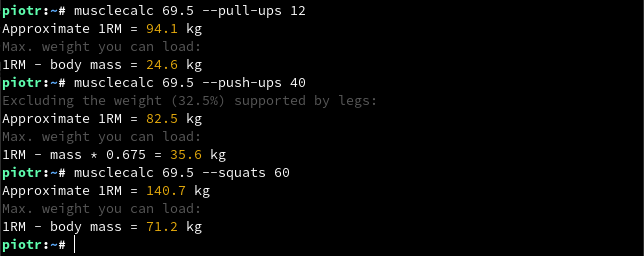
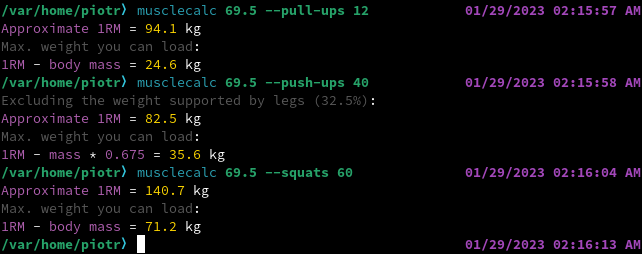
Add files via upload

diff --git a/src/menu.rs b/src/menu.rs
@@ -1,4 +1,4 @@
-// MUSCLECALC VERSION 0.2.3 / APACHE LICENSE 2.0 © 2022 PIOTR BAJDEK
+// MUSCLECALC VERSION 0.2.4 / APACHE LICENSE 2.0 © 2022–2023 PIOTR BAJDEK
 
 // MODULE MENU
 
@@ -13,46 +13,46 @@ use std::process::exit;
 
 // DOCUMENTATION
 
-pub fn documentation(reset: &str, yellow: &str, blue_underlined: &str, cyan: &str, grey: &str) {
+pub fn documentation(reset: &str, blue_underlined: &str, grey: &str, violet: &str, yellow: &str) {
     // ARGUMENTS ANYWHERE WITHIN THE STRING
 
     for argument in env::args() {
         // ABOUT
 
         if argument == "-a" || argument == "--about" {
-            println!("Program:  {}", yellow.to_owned() + "musclecalc" + reset);
-            println!("Version:  0.2.3");
-            println!("Date:     November 26, 2022");
-            println!("Author:   Piotr Bajdek (Poland)");
-            println!("Contact:  {}", blue_underlined.to_owned() + "piotr.bajdek@proton.me" + reset);
-            println!("Source:   {}", blue_underlined.to_owned() + "https://github.com/piotrbajdek/musclecalc" + reset);
-            println!("License:  Apache License 2.0 © 2022 Piotr Bajdek");
+            println!("{}", grey.to_owned() + "Program" + reset + ":  " + yellow + "musclecalc" + reset);
+            println!("{}", grey.to_owned() + "Version" + reset + ":  0.2.4");
+            println!("{}", grey.to_owned() + "Date" + reset + ":     January 29, 2023");
+            println!("{}", grey.to_owned() + "Author" + reset + ":   Piotr Bajdek");
+            println!("{}", grey.to_owned() + "Contact" + reset + ":  " + blue_underlined + "piotr.bajdek@proton.me" + reset);
+            println!("{}", grey.to_owned() + "Source" + reset + ":   " + blue_underlined + "https://github.com/piotrbajdek/musclecalc" + reset);
+            println!("{}", grey.to_owned() + "License" + reset + ":  Apache License 2.0 © 2022–2023 Piotr Bajdek");
             exit(0);
         }
 
         // HELP
 
         if argument == "-h" || argument == "--help" {
-            println!("Usage:     {}", yellow.to_owned() + "[BODY MASS IN KG] [EXERCISE] [MAX. REPETITIONS]" + reset);
+            println!("{}", grey.to_owned() + "Usage" + reset + ":     " + yellow + "musclecalc [body mass in kg] [exercise] [max. repetitions]" + reset);
             println!();
-            println!("Exercises: {}", cyan.to_owned() + "-p" + reset + ", " + cyan + "--pull-ups" + reset + "    Model for pull-ups");
-            println!("           {}", cyan.to_owned() + "-P" + reset + ", " + cyan + "--push-ups" + reset + "    Model for push-ups");
-            println!("           {}", cyan.to_owned() + "-s" + reset + ", " + cyan + "--squats" + reset + "      Model for squats");
+            println!("{}", grey.to_owned() + "Exercises" + reset + ": " + violet + "-p" + reset + ", " + violet + "--pull-ups" + reset + "    Model for pull-ups");
+            println!("           {}", violet.to_owned() + "-P" + reset + ", " + violet + "--push-ups" + reset + "    Model for push-ups");
+            println!("           {}", violet.to_owned() + "-s" + reset + ", " + violet + "--squats" + reset + "      Model for squats");
             println!();
-            println!("Example:   {}", yellow.to_owned() + "musclecalc 69.5 --pull-ups 12" + reset);
+            println!("{}", grey.to_owned() + "Example" + reset + ":   " + yellow + "musclecalc 69.5 --pull-ups 12" + reset);
             println!();
-            println!("See also:  {}", cyan.to_owned() + "-a" + reset + ", " + cyan + "--about" + reset + "       Show contact and program info");
-            println!("           {}", cyan.to_owned() + "-h" + reset + ", " + cyan + "--help" + reset + "        Show this help");
-            println!("           {}", cyan.to_owned() + "-l" + reset + ", " + cyan + "--license" + reset + "     Show licensing information");
-            println!("           {}", cyan.to_owned() + "-m" + reset + ", " + cyan + "--models" + reset + "      Show implemented formulae");
-            println!("           {}", cyan.to_owned() + "-v" + reset + ", " + cyan + "--version" + reset + "     Show program version");
+            println!("{}", grey.to_owned() + "See also" + reset + ":  " + violet + "-a" + reset + ", " + violet + "--about" + reset + "       Display contact and program information");
+            println!("           {}", violet.to_owned() + "-h" + reset + ", " + violet + "--help" + reset + "        Display the help menu");
+            println!("           {}", violet.to_owned() + "-l" + reset + ", " + violet + "--license" + reset + "     Display licensing information");
+            println!("           {}", violet.to_owned() + "-m" + reset + ", " + violet + "--models" + reset + "      Display the list of implemented formulae");
+            println!("           {}", violet.to_owned() + "-v" + reset + ", " + violet + "--version" + reset + "     Display the program version");
             exit(0);
         }
 
         // LICENSE
 
         if argument == "-l" || argument == "--license" {
-            println!("{}", yellow.to_owned() + "Copyright 2022 Piotr Bajdek" + reset);
+            println!("{}", yellow.to_owned() + "Copyright 2022–2023 Piotr Bajdek" + reset);
             println!();
             println!(r#"Licensed under the Apache License, Version 2.0 (the "License");"#);
             println!("you may not use this file except in compliance with the License.");
@@ -71,16 +71,16 @@ pub fn documentation(reset: &str, yellow: &str, blue_underlined: &str, cyan: &st
         // MODELS
 
         if argument == "-m" || argument == "--models" {
-            println!("Pull-ups            {}", cyan.to_owned() + "Mayhew et al. (1992) formula:");
+            println!("Pull-ups            {}", violet.to_owned() + "Mayhew et al. (1992) formula" + reset + ":");
             println!("{}", yellow.to_owned() + " 100 * mass / (52.2 + 41.9 * exp (-0.055 * reps))" + reset);
             println!();
-            println!("Push-ups   {}", cyan.to_owned() + "Modified Mayhew et al. (1992) formula:");
+            println!("Push-ups   {}", violet.to_owned() + "Modified Mayhew et al. (1992) formula" + reset + ":");
             println!("{}", yellow.to_owned() + "67.5 * mass / (52.2 + 41.9 * exp (-0.055 * reps))" + reset);
             println!();
-            println!("Squats                     {}", cyan.to_owned() + "Wathen (1994) formula:");
+            println!("Squats                     {}", violet.to_owned() + "Wathen (1994) formula" + reset + ":");
             println!("{}", yellow.to_owned() + " 100 * mass / (48.8 + 53.8 * exp (-0.075 * reps))");
             println!();
-            println!("{}", grey.to_owned() + "***" + reset);
+            println!("{}", grey.to_owned() + "References" + reset + ":");
             println!();
             println!("Mayhew, J.L., Ball, T.E., Arnold, M.D. and Bowen, J.C. 1992. Relative muscular");
             println!("endurance performance as a predictor of bench press strength in college men");
@@ -94,8 +94,8 @@ pub fn documentation(reset: &str, yellow: &str, blue_underlined: &str, cyan: &st
         // VERSION
 
         if argument == "-v" || argument == "--version" {
-            println!("Version: {}", yellow.to_owned() + "0.2.3" + reset);
-            println!("November 26, 2022");
+            println!("{}", grey.to_owned() + "Version" + reset + ": " + yellow + "0.2.4" + reset);
+            println!("January 29, 2023");
             exit(0);
         }
     }

diff --git a/src/calc.rs b/src/calc.rs
@@ -1,4 +1,4 @@
-// MUSCLECALC VERSION 0.2.3 / APACHE LICENSE 2.0 © 2022 PIOTR BAJDEK
+// MUSCLECALC VERSION 0.2.4 / APACHE LICENSE 2.0 © 2022–2023 PIOTR BAJDEK
 
 // MODULE CALC
 
@@ -13,7 +13,7 @@ use std::env;
 
 // CALCULATIONS
 
-pub fn list(reset: &str, red: &str, yellow: &str, grey: &str) {
+pub fn list(reset: &str, grey: &str, red: &str, violet: &str, yellow: &str) {
     // COLLECT ARGUMENTS FOR CALCULATIONS
 
     let args: Vec<String> = env::args().collect();
@@ -36,13 +36,13 @@ pub fn list(reset: &str, red: &str, yellow: &str, grey: &str) {
         let mexp = 41.9f32.mul_add(cexp, 52.2);
         let rm = 100_f32 * mass / mexp;
 
-        print!("Approximate 1RM = {}", yellow.to_owned());
-        print!("{:.1}", rm);
+        print!("{}", violet.to_owned() + "Approximate 1RM" + reset + " = " + yellow);
+        print!("{rm:.1}");
         println!("{}", reset.to_owned() + " kg");
 
-        println!("{}", grey.to_owned() + "Max. weight you can load:" + reset);
+        println!("{}", grey.to_owned() + "Max. weight you can load" + reset + ":");
 
-        print!("1RM - body mass = {}", yellow.to_owned());
+        print!("{}", violet.to_owned() + "1RM " + reset + "-" + violet + " body mass" + reset + " = " + yellow);
         print!("{:.1}", rm - mass);
         println!("{}", reset.to_owned() + " kg");
         return;
@@ -59,14 +59,14 @@ pub fn list(reset: &str, red: &str, yellow: &str, grey: &str) {
         let mexp = 41.9f32.mul_add(cexp, 52.2);
         let rmmod = 100_f32 * massmod / mexp;
 
-        println!("{}", grey.to_owned() + "Excluding the weight (32.5%) supported by legs:" + reset);
-        print!("Approximate 1RM = {}", yellow.to_owned());
-        print!("{:.1}", rmmod);
+        println!("{}", grey.to_owned() + "Excluding the weight supported by legs (32.5%)" + reset + ":");
+        print!("{}", violet.to_owned() + "Approximate 1RM" + reset + " = " + yellow);
+        print!("{rmmod:.1}");
         println!("{}", reset.to_owned() + " kg");
 
-        println!("{}", grey.to_owned() + "Max. weight you can load:" + reset);
+        println!("{}", grey.to_owned() + "Max. weight you can load" + reset + ":");
 
-        print!("1RM - mass * 0.675 = {}", yellow.to_owned());
+        print!("{}", violet.to_owned() + "1RM " + reset + "-" + violet + " mass " + reset + "*" + violet + " 0.675" + reset + " = " + yellow);
         print!("{:.1}", rmmod - massmod);
         println!("{}", reset.to_owned() + " kg");
         return;
@@ -82,13 +82,13 @@ pub fn list(reset: &str, red: &str, yellow: &str, grey: &str) {
         let mexp = 53.8f32.mul_add(cexp, 48.8);
         let rm = 100_f32 * mass / mexp;
 
-        print!("Approximate 1RM = {}", yellow.to_owned());
-        print!("{:.1}", rm);
+        print!("{}", violet.to_owned() + "Approximate 1RM" + reset + " = " + yellow);
+        print!("{rm:.1}");
         println!("{}", reset.to_owned() + " kg");
 
-        println!("{}", grey.to_owned() + "Max. weight you can load:" + reset);
+        println!("{}", grey.to_owned() + "Max. weight you can load" + reset + ":");
 
-        print!("1RM - body mass = {}", yellow.to_owned());
+        print!("{}", violet.to_owned() + "1RM " + reset + "-" + violet + " body mass" + reset + " = " + yellow);
         print!("{:.1}", rm - mass);
         println!("{}", reset.to_owned() + " kg");
         return;

diff --git a/src/main.rs b/src/main.rs
@@ -1,4 +1,4 @@
-// MUSCLECALC VERSION 0.2.3 / APACHE LICENSE 2.0 © 2022 PIOTR BAJDEK
+// MUSCLECALC VERSION 0.2.4 / APACHE LICENSE 2.0 © 2022–2023 PIOTR BAJDEK
 
 // MAIN FILE
 
@@ -15,12 +15,12 @@ pub mod menu;
 
 fn main() {
     let reset = "\x1b[0m";
-    let yellow = "\x1b[93m";
+    let yellow = "\x1b[38;5;220m";
     let red = "\x1b[31m";
     let blue_underlined = "\x1b[34;4m";
-    let cyan = "\x1b[36m";
+    let violet = "\x1b[38;5;133m";
     let grey = "\x1b[38;5;240m";
 
-    menu::documentation(reset, yellow, blue_underlined, cyan, grey);
-    calc::list(reset, red, yellow, grey);
+    menu::documentation(reset, blue_underlined, grey, violet, yellow);
+    calc::list(reset, grey, red, violet, yellow);
 }

diff --git a/README.md b/README.md
@@ -1,22 +1,16 @@
 # MUSCLECALC
 
-[musclecalc](https://github.com/piotrbajdek/musclecalc) employs mathematical formulae from Mayhew et al. (1992) and Wathen (1994) to estimate the maximum weight one can lift in a single repetition of a physical exercise (known as 1RM: one repetition maximum). Calculations are based on (1) the body mass, (2) the exercise type, and (3) the maximum number of repetitions one is able to perform in a single set without an additional weight i.e., with its own body mass.
+[musclecalc](https://github.com/piotrbajdek/musclecalc) utilises mathematical formulae from Mayhew et al. (1992) and Wathen (1994) to estimate the maximum weight that can be lifted in a single repetition of a physical exercise, known as the one repetition maximum (1RM). The calculations take into account the body mass, exercise type, and maximum number of repetitions that can be performed without additional weight.
 
 [keywords: bodybuilding, calculator, calisthenics, callisthenics, fitness, gym, muscle strength, physical training, street workout]
 
-musclecalc can be used by both females and males. Implemented models:
+Designed for use by both females and males, musclecalc utilises the following models:
 
-**1. Pull-ups** (including chin-ups, will also work fine for dips and other upper-body exercises lifting the whole body)
+**1. Pull-ups**, including chin-ups, dips, and other upper-body exercises that involve lifting the whole body. The Mayhew et al. (1992) equation is used, as it is possibly more accurate for the upper body (LeSuer et al. 1997; Jiménez and De Paz 2008).
 
-– Mayhew et al. (1992) equation is used as it appears to be more accurate for the upper body (LeSuer et al. 1997; Jiménez and De Paz 2008).
+**2. Push-ups**, for which the a modified Mayhew et al. (1992) formula is used, assuming that 32.5% of the body weight is supported on the ground by legs when push-ups are performed with a typical position of hands at the height of the chest.
 
-**2. Push-ups** (untested on females and dependent on the body form)
-
-– Modified Mayhew et al. (1992) formula assuming that 32.5% of the body weight is supported on the ground by legs when push-ups are performed with a typical position of hands at the height of the chest.
-
-**3. Squats**
-
-– Wathen (1994) equation is used as it appears to be more accurate for the lower body (LeSuer et al. 1997).
+**3. Squats**, for which the Wathen (1994) equation is used, as it is possibly more accurate for the lower body (LeSuer et al. 1997).
 
 **References:**
 
@@ -28,72 +22,72 @@ Mayhew, J.L., Ball, T.E., Arnold, M.D., and Bowen, J.C. 1992. Relative muscular 
 
 Wathen, D. 1994. Load assignment. In: T.R. Baechle (Ed.), _Essentials of strength training and conditioning_, pp. 435–446. Champaign, IL: Human Kinetics.
 
-# EXAMPLES
+# USAGE
 
 ![help-image](https://github.com/piotrbajdek/musclecalc/blob/main/docs/images/help-image.png?raw=true)
+
+![models-image](https://github.com/piotrbajdek/musclecalc/blob/main/docs/images/models-image.png?raw=true)
+
+# EXAMPLES
 
 ![example-image-1](https://github.com/piotrbajdek/musclecalc/blob/main/docs/images/example-image-1.png?raw=true)
 
 # INSTALLATION ON LINUX
 
-[musclecalc](https://github.com/piotrbajdek/musclecalc) should run smoothly on **Windows** and **macOS**, and can be installed by the use of [cargo](https://www.rust-lang.org/tools/install). Yet, it is being developed and primarily tested on **Fedora Linux**.
+[musclecalc](https://github.com/piotrbajdek/musclecalc) is designed to be compatible with **Windows** and **macOS**, and can be easily installed using [cargo](https://www.rust-lang.org/tools/install). However, the primary development and testing environment for musclecalc is **Fedora Linux**.
 
-musclecalc v0.2.3:
+The current version of musclecalc (v0.2.4) has been verified to work properly on Fedora Linux 37 and Ubuntu 22.10.
 
-– Was successfully tested on Arch Linux, Fedora Linux 37, openSUSE Tumbleweed, Ubuntu 22.04 and Ubuntu 22.10.
+## METHOD 1 – USING CARGO
 
-– Failed to run on Mageia 8 due to an old glibc version (required ≥2.34).
+**[Recommended for programmers]**
 
-## METHOD 1 – BY THE USE OF CARGO
-
-**[recommended for programmers]**
-
-**1.** Install from crates.io by the use of cargo:
+**1.** To install musclecalc from [crates.io](https://crates.io/crates/musclecalc), use the following cargo command:
 
 _cargo install musclecalc_
 
-By default, the file will be downloaded to `.cargo/bin/`, a hidden folder in your home directory.
+The executable will be saved in the hidden `.cargo/bin/` directory within your home directory.
 
-**2a.** For convenience, you will probably want to copy musclecalc to `/usr/bin/` as in Method 2 (3a, 3b).
+**2a.** For easy access, you may want to copy the musclecalc file to the `/usr/bin/` directory. This can be done by following the instructions in Method 2 (3a, 3b).
 
-**2b.** Alternatively, add `~/.cargo/bin` directory to your PATH variable (can be set up by [rustup](https://www.rust-lang.org/tools/install)).
+**2b.** As an alternative, you can add the `~/.cargo/bin/` directory to your system's PATH variable, which can be configured using [rustup](https://www.rust-lang.org/tools/install).
 
-## METHOD 2 – LINUX UNIVERSAL BINARIES
+## METHOD 2 – UNIVERSAL LINUX BINARIES
 
-**1.** Download the distro-independent [binary](https://github.com/piotrbajdek/musclecalc/releases/download/v0.2.3/musclecalc) of musclecalc from GitHub.
+**1.** To install musclecalc, first download the distro-independent [binary](https://github.com/piotrbajdek/musclecalc/releases/download/v0.2.4/musclecalc) from GitHub.
 
-**2.** Make the file executable:
+**2.** Then, make the file executable by running the command:
 
 _sudo chmod +x ./musclecalc_
 
-**3a.** On most Linux distros, install musclecalc via copying the binary to `/usr/bin/`:
+**3a.** On most Linux distributions, install musclecalc by copying the binary to `/usr/bin/`:
 
 _sudo cp musclecalc /usr/bin/_
 
-**3b.** On Fedora Silverblue / Kinoite:
+**3b.** For Fedora Silverblue / Kinoite, use this command:
 
 _sudo cp musclecalc /var/usrlocal/bin/_
 
 ## METHOD 3 – DISTRO-SPECIFIC PACKAGES
 
-**[recommended for most users]**
+**[Recommended for most users]**
 
-Distro-specific packages are also available for download for [.rpm](https://github.com/piotrbajdek/musclecalc/releases/download/v0.2.3/musclecalc-0.2.3-1.x86_64.rpm)- and [.deb](https://github.com/piotrbajdek/musclecalc/releases/download/v0.2.3/musclecalc_0.2.3_amd64.deb)-based Linux distros. Installation instructions:
+Distro-specific packages for [.rpm](https://github.com/piotrbajdek/musclecalc/releases/download/v0.2.4/musclecalc-0.2.4-1.x86_64.rpm) and [.deb](https://github.com/piotrbajdek/musclecalc/releases/download/v0.2.4/musclecalc_0.2.4_amd64.deb)-based Linux distributions are also available for download. To install musclecalc on different Linux distributions, follow these instructions:
 
 Fedora Linux / RHEL / openSUSE:
 
-_sudo rpm -i musclecalc-0.2.3-1.x86_64.rpm_
+_sudo rpm -i musclecalc-0.2.4-1.x86_64.rpm_
 
 Fedora Silverblue / Kinoite:
 
-_rpm-ostree install musclecalc-0.2.3-1.x86_64.rpm_
+_rpm-ostree install musclecalc-0.2.4-1.x86_64.rpm_
 
 Ubuntu:
 
-_sudo dpkg -i musclecalc_0.2.3_amd64.deb_
+_sudo dpkg -i musclecalc_0.2.4_amd64.deb_
 
 ## METHOD 4 – MANUAL COMPILATION
 
-Download and unpack the musclecalc [source](https://github.com/piotrbajdek/musclecalc/archive/refs/tags/v0.2.3.zip) from GitHub. Then, build and install the program:
+First, download and unpack the musclecalc [source code](https://github.com/piotrbajdek/musclecalc/archive/refs/tags/v0.2.4.zip) from GitHub. Next, to build and install the program, use the command:
 
 _cargo build \--release && sudo cp target/release/musclecalc /usr/bin/_
